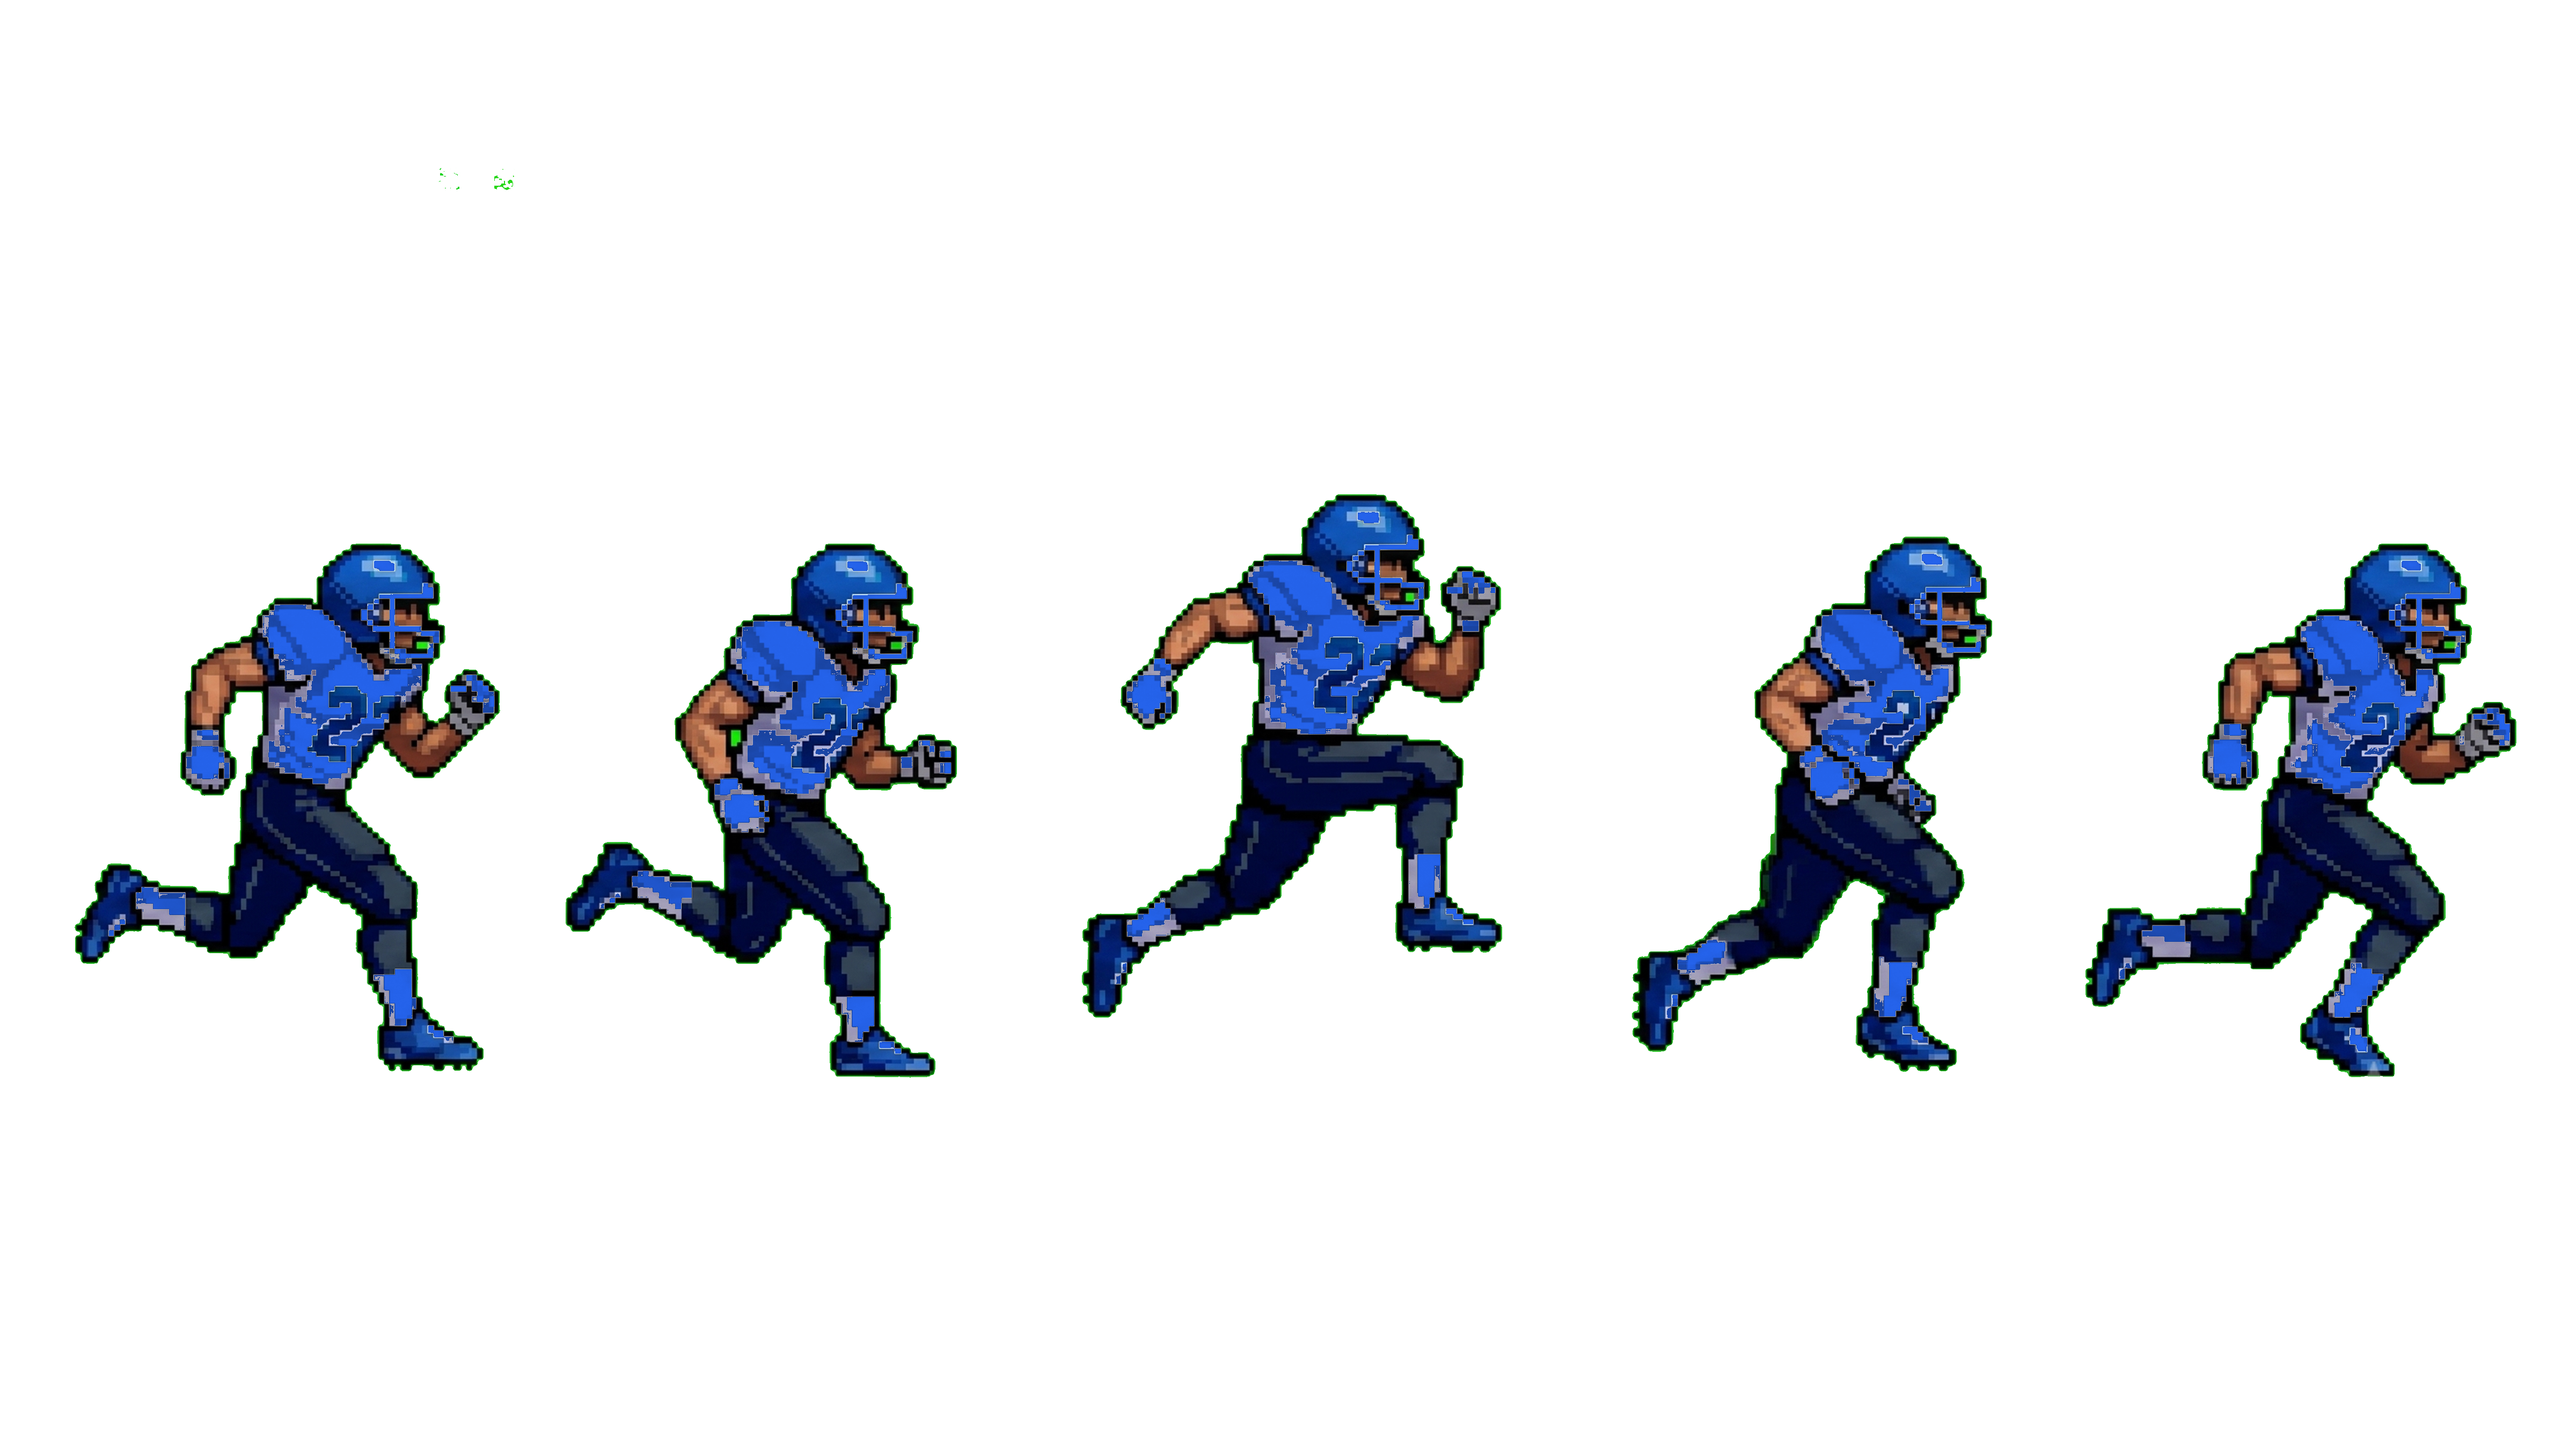
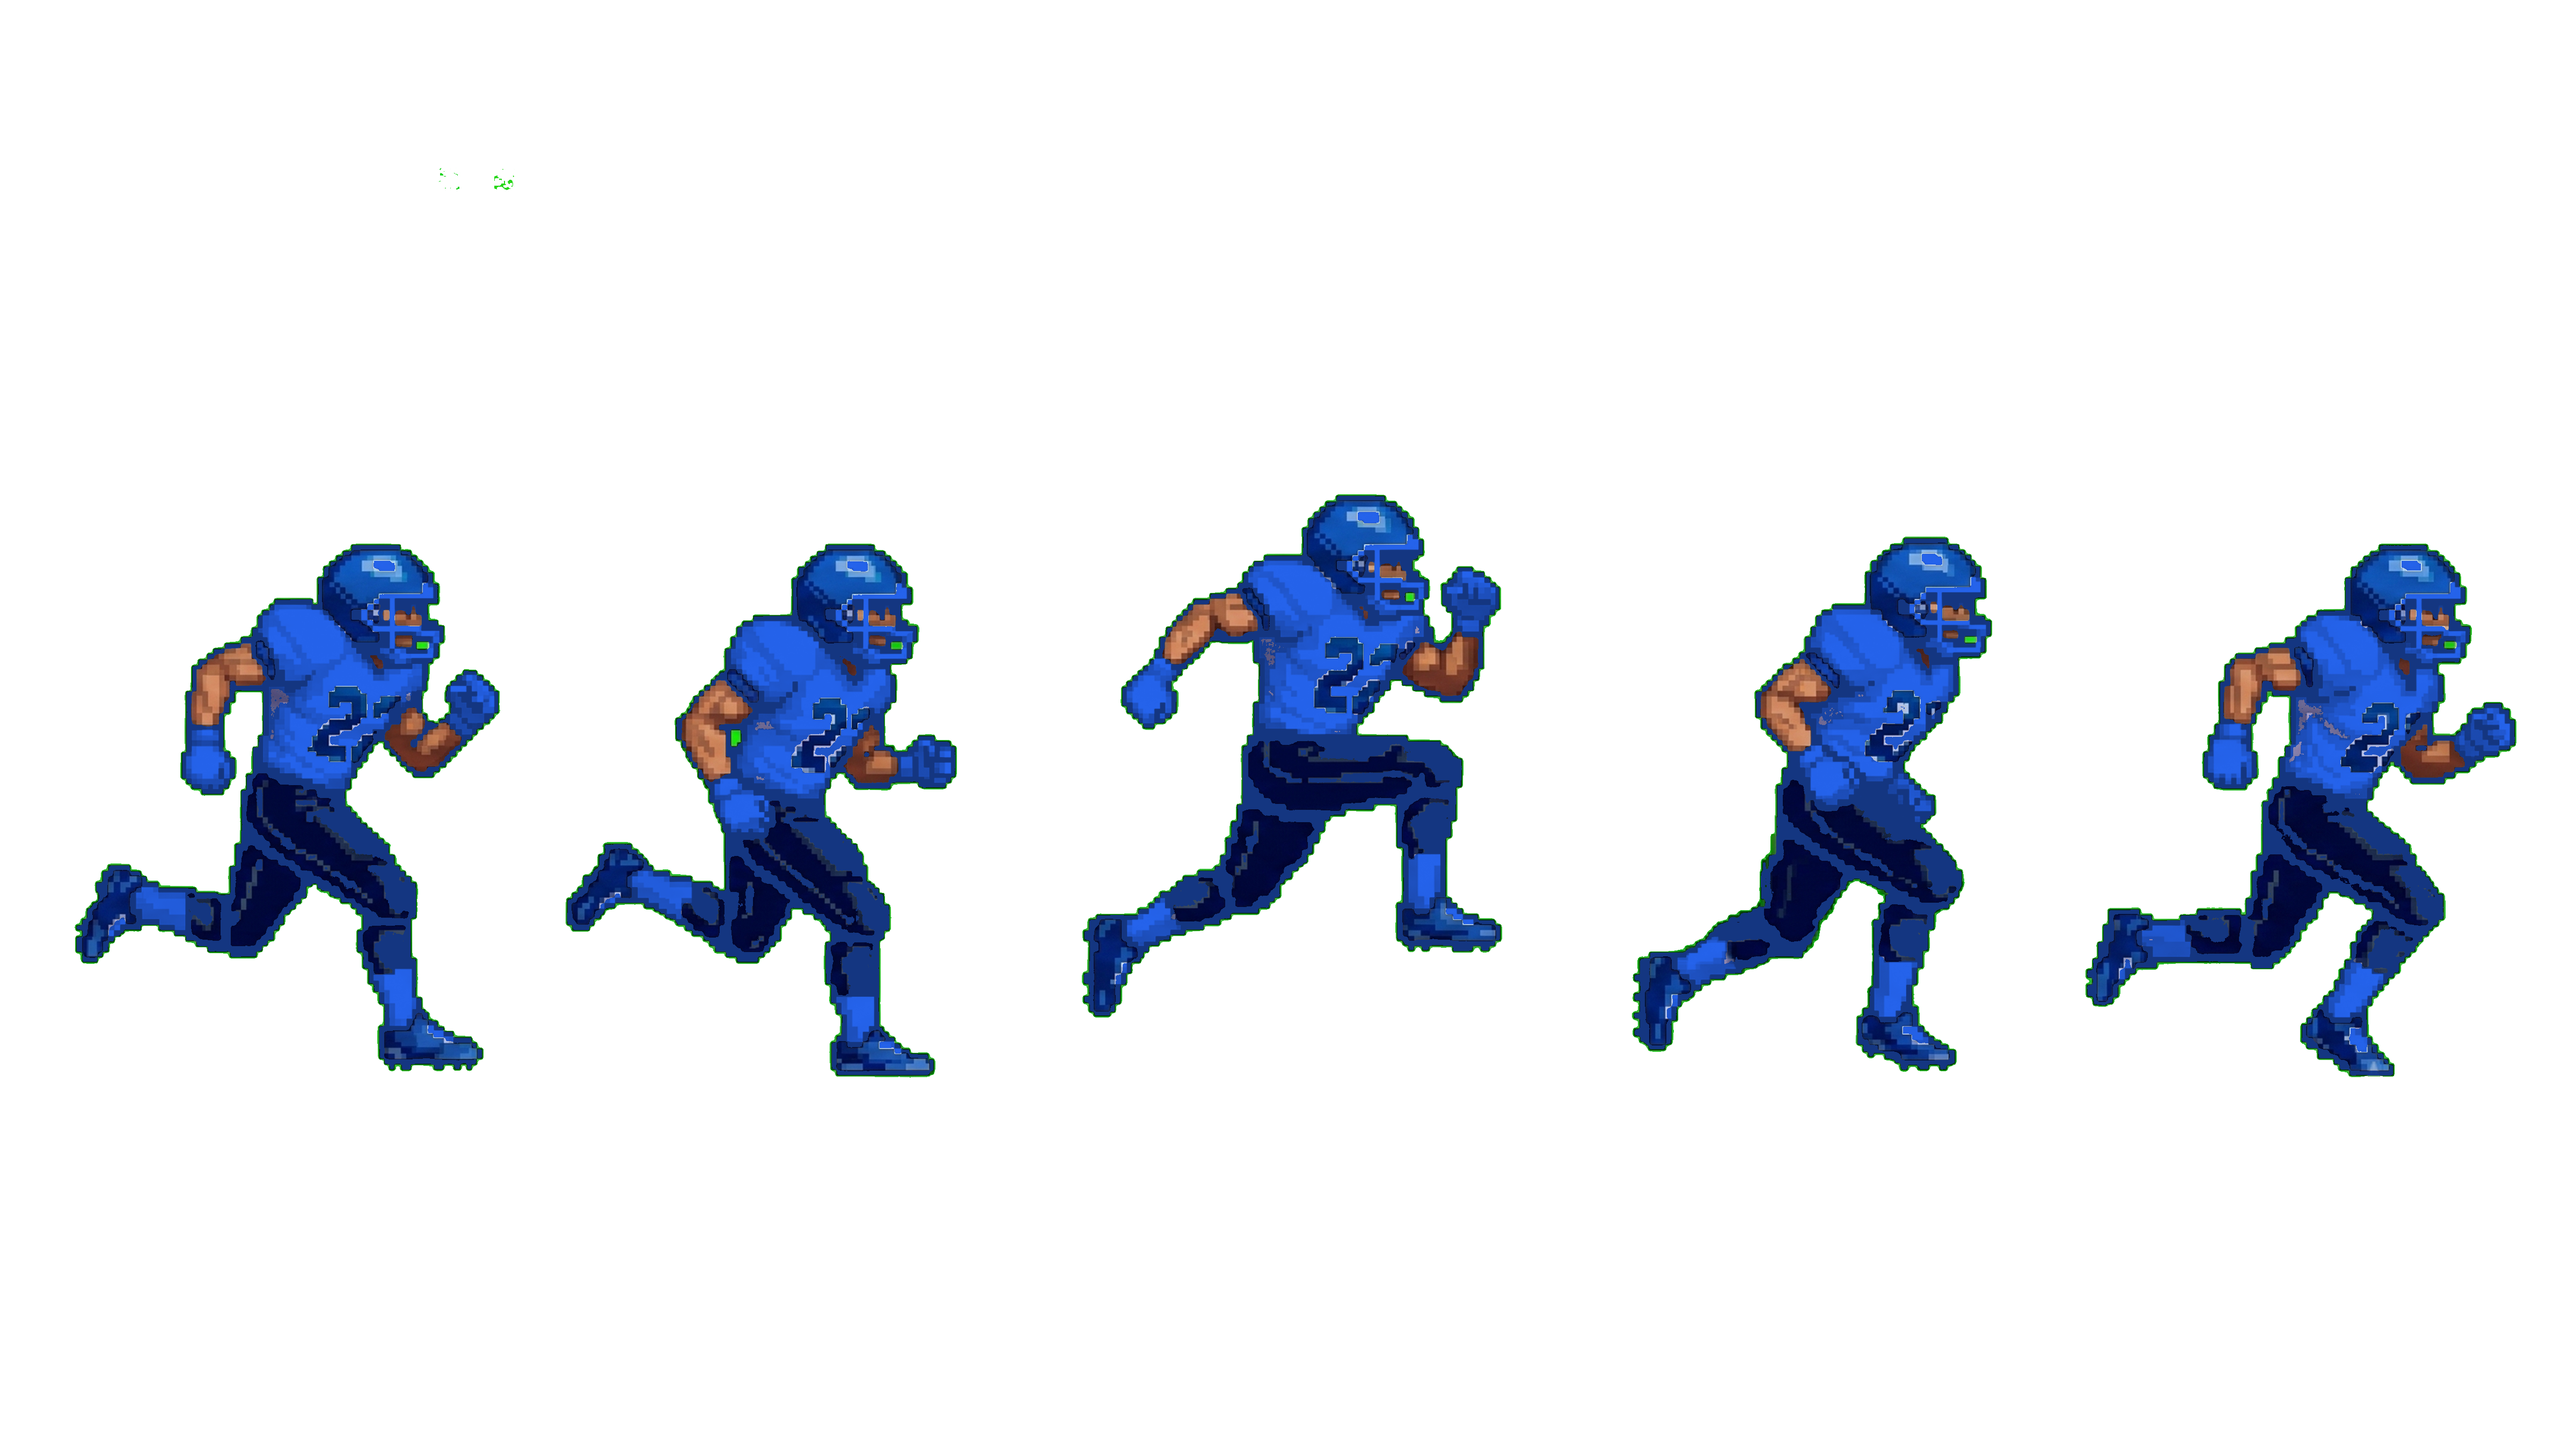
Football mode polish: brighter jerseys, white names, real field image
- Regenerate all 12 player sprites with gamma-corrected brightness (0.45)
  and a minimum brightness floor (0.55) so jersey colors pop instead of going dark
- Add .football-field .lane-name { color: white } so participant names are
  readable on the dark green label background
- Replace CSS gradient football track with actual Field.png image

diff --git a/src/app/globals.css b/src/app/globals.css
@@ -336,21 +336,15 @@ a { color: inherit; text-decoration: none; }
 }
 .football-field .lane-rank { color: rgba(255,255,255,0.6); }
 .football-field .lane-dot  { border-color: rgba(255,255,255,0.25); }
+.football-field .lane-name { color: #ffffff; }
 
 .football-field .lane-track {
   background-color: #2e7d42;
+  background-image: url('/field.png');
+  background-size: cover;
+  background-repeat: no-repeat;
+  background-position: center;
   overflow: visible;
-  /* Three layers: end zones | alternating mowed stripes | yard lines */
-  background-image:
-    linear-gradient(90deg,
-      rgba(0,40,8,0.42) 0%, rgba(0,40,8,0.42) 9%,
-      transparent 9%, transparent 91%,
-      rgba(0,40,8,0.42) 91%
-    ),
-    linear-gradient(90deg, rgba(255,255,255,0.045) 50%, transparent 50%),
-    linear-gradient(90deg, transparent calc(100% - 2px), rgba(255,255,255,0.55) calc(100% - 2px));
-  background-size: 100% 100%, 20% 100%, 10% 100%;
-  background-repeat: no-repeat, repeat-x, repeat-x;
 }
 
 .football-field .lane-fill { opacity: 0.12; }
